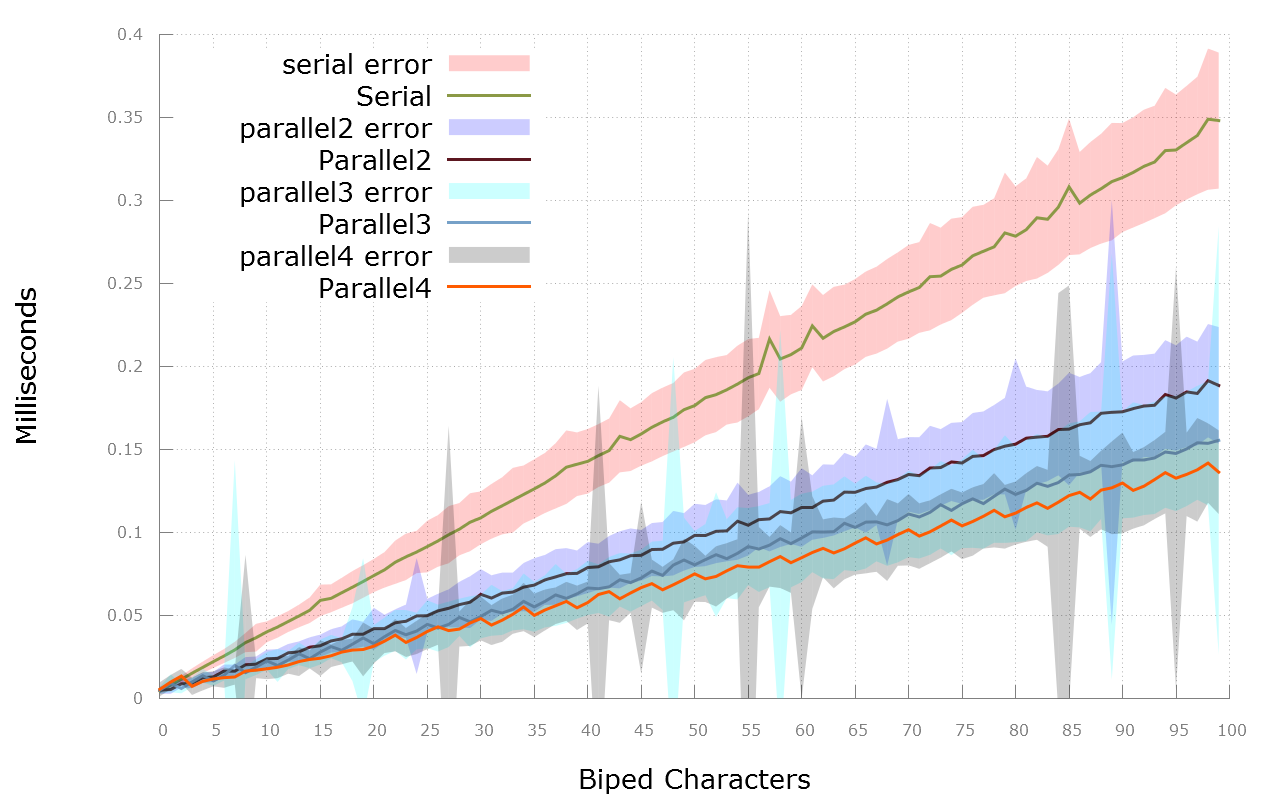
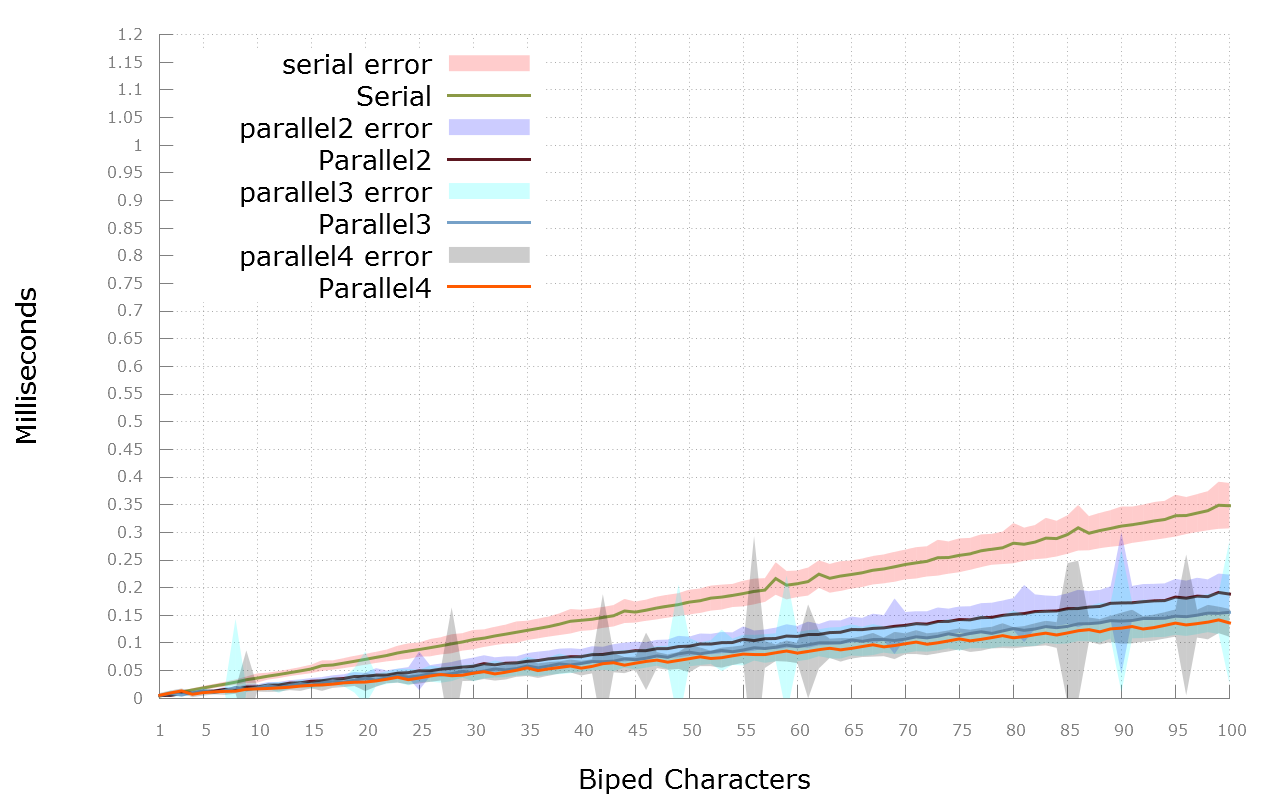
working on graphs

diff --git a/multileg/bin/output/graphs/render/output_vector_frames_BIPED.tex b/multileg/bin/output/graphs/render/output_vector_frames_BIPED.tex
@@ -77,35 +77,41 @@
       \colorrgb{0.50,0.50,0.50}%
       \put(1078,704){\makebox(0,0)[r]{\strut{} 0}}%
       \colorrgb{0.50,0.50,0.50}%
-      \put(1078,2061){\makebox(0,0)[r]{\strut{} 0.05}}%
+      \put(1078,1383){\makebox(0,0)[r]{\strut{} 0.05}}%
       \colorrgb{0.50,0.50,0.50}%
-      \put(1078,3418){\makebox(0,0)[r]{\strut{} 0.1}}%
+      \put(1078,2061){\makebox(0,0)[r]{\strut{} 0.1}}%
       \colorrgb{0.50,0.50,0.50}%
-      \put(1078,4775){\makebox(0,0)[r]{\strut{} 0.15}}%
+      \put(1078,2740){\makebox(0,0)[r]{\strut{} 0.15}}%
+      \colorrgb{0.50,0.50,0.50}%
+      \put(1078,3418){\makebox(0,0)[r]{\strut{} 0.2}}%
+      \colorrgb{0.50,0.50,0.50}%
+      \put(1078,4097){\makebox(0,0)[r]{\strut{} 0.25}}%
+      \colorrgb{0.50,0.50,0.50}%
+      \put(1078,4775){\makebox(0,0)[r]{\strut{} 0.3}}%
+      \colorrgb{0.50,0.50,0.50}%
+      \put(6796,484){\makebox(0,0){\strut{}799}}%
       \colorrgb{0.50,0.50,0.50}%
       \put(1210,484){\makebox(0,0){\strut{} 0}}%
       \colorrgb{0.50,0.50,0.50}%
-      \put(1909,484){\makebox(0,0){\strut{} 100}}%
+      \put(1910,484){\makebox(0,0){\strut{} 100}}%
       \colorrgb{0.50,0.50,0.50}%
-      \put(2608,484){\makebox(0,0){\strut{} 200}}%
+      \put(2610,484){\makebox(0,0){\strut{} 200}}%
       \colorrgb{0.50,0.50,0.50}%
-      \put(3307,484){\makebox(0,0){\strut{} 300}}%
+      \put(3310,484){\makebox(0,0){\strut{} 300}}%
       \colorrgb{0.50,0.50,0.50}%
-      \put(4006,484){\makebox(0,0){\strut{} 400}}%
+      \put(4010,484){\makebox(0,0){\strut{} 400}}%
       \colorrgb{0.50,0.50,0.50}%
-      \put(4706,484){\makebox(0,0){\strut{} 500}}%
+      \put(4710,484){\makebox(0,0){\strut{} 500}}%
       \colorrgb{0.50,0.50,0.50}%
-      \put(5405,484){\makebox(0,0){\strut{} 600}}%
+      \put(5410,484){\makebox(0,0){\strut{} 600}}%
       \colorrgb{0.50,0.50,0.50}%
-      \put(6104,484){\makebox(0,0){\strut{} 700}}%
-      \colorrgb{0.50,0.50,0.50}%
-      \put(6803,484){\makebox(0,0){\strut{} 800}}%
+      \put(6110,484){\makebox(0,0){\strut{} 700}}%
       \csname LTb\endcsname%
       \put(176,2739){\rotatebox{-270}{\makebox(0,0){\strut{}Milliseconds}}}%
       \put(4006,154){\makebox(0,0){\strut{}Step}}%
-      \put(32671,217120704){\makebox(0,0)[l]{\strut{}Sponge}}%
-      \put(32671,43424704){\makebox(0,0)[l]{\strut{}Ants}}%
-      \put(32671,10856704){\makebox(0,0)[l]{\strut{}Worms}}%
+      \put(32710,108560704){\makebox(0,0)[l]{\strut{}Sponge}}%
+      \put(32710,21712704){\makebox(0,0)[l]{\strut{}Ants}}%
+      \put(32710,5428704){\makebox(0,0)[l]{\strut{}Worms}}%
     }%
     \gplgaddtomacro\gplfronttext{%
       \csname LTb\endcsname%

diff --git a/multileg/bin/output/graphs/render/output_vector_frames_QUADRUPED.tex b/multileg/bin/output/graphs/render/output_vector_frames_QUADRUPED.tex
@@ -77,7 +77,7 @@
       \colorrgb{0.50,0.50,0.50}%
       \put(1078,704){\makebox(0,0)[r]{\strut{} 0}}%
       \colorrgb{0.50,0.50,0.50}%
-      \put(1078,1382){\makebox(0,0)[r]{\strut{} 0.05}}%
+      \put(1078,1383){\makebox(0,0)[r]{\strut{} 0.05}}%
       \colorrgb{0.50,0.50,0.50}%
       \put(1078,2061){\makebox(0,0)[r]{\strut{} 0.1}}%
       \colorrgb{0.50,0.50,0.50}%
@@ -85,33 +85,33 @@
       \colorrgb{0.50,0.50,0.50}%
       \put(1078,3418){\makebox(0,0)[r]{\strut{} 0.2}}%
       \colorrgb{0.50,0.50,0.50}%
-      \put(1078,4096){\makebox(0,0)[r]{\strut{} 0.25}}%
+      \put(1078,4097){\makebox(0,0)[r]{\strut{} 0.25}}%
       \colorrgb{0.50,0.50,0.50}%
       \put(1078,4775){\makebox(0,0)[r]{\strut{} 0.3}}%
       \colorrgb{0.50,0.50,0.50}%
+      \put(6796,484){\makebox(0,0){\strut{}799}}%
+      \colorrgb{0.50,0.50,0.50}%
       \put(1210,484){\makebox(0,0){\strut{} 0}}%
       \colorrgb{0.50,0.50,0.50}%
-      \put(1909,484){\makebox(0,0){\strut{} 100}}%
+      \put(1910,484){\makebox(0,0){\strut{} 100}}%
       \colorrgb{0.50,0.50,0.50}%
-      \put(2608,484){\makebox(0,0){\strut{} 200}}%
+      \put(2610,484){\makebox(0,0){\strut{} 200}}%
       \colorrgb{0.50,0.50,0.50}%
-      \put(3307,484){\makebox(0,0){\strut{} 300}}%
+      \put(3310,484){\makebox(0,0){\strut{} 300}}%
       \colorrgb{0.50,0.50,0.50}%
-      \put(4006,484){\makebox(0,0){\strut{} 400}}%
+      \put(4010,484){\makebox(0,0){\strut{} 400}}%
       \colorrgb{0.50,0.50,0.50}%
-      \put(4706,484){\makebox(0,0){\strut{} 500}}%
+      \put(4710,484){\makebox(0,0){\strut{} 500}}%
       \colorrgb{0.50,0.50,0.50}%
-      \put(5405,484){\makebox(0,0){\strut{} 600}}%
+      \put(5410,484){\makebox(0,0){\strut{} 600}}%
       \colorrgb{0.50,0.50,0.50}%
-      \put(6104,484){\makebox(0,0){\strut{} 700}}%
-      \colorrgb{0.50,0.50,0.50}%
-      \put(6803,484){\makebox(0,0){\strut{} 800}}%
+      \put(6110,484){\makebox(0,0){\strut{} 700}}%
       \csname LTb\endcsname%
       \put(176,2739){\rotatebox{-270}{\makebox(0,0){\strut{}Milliseconds}}}%
       \put(4006,154){\makebox(0,0){\strut{}Step}}%
-      \put(32671,108560704){\makebox(0,0)[l]{\strut{}Sponge}}%
-      \put(32671,21712704){\makebox(0,0)[l]{\strut{}Ants}}%
-      \put(32671,5428704){\makebox(0,0)[l]{\strut{}Worms}}%
+      \put(32710,108560704){\makebox(0,0)[l]{\strut{}Sponge}}%
+      \put(32710,21712704){\makebox(0,0)[l]{\strut{}Ants}}%
+      \put(32710,5428704){\makebox(0,0)[l]{\strut{}Worms}}%
     }%
     \gplgaddtomacro\gplfronttext{%
       \csname LTb\endcsname%
